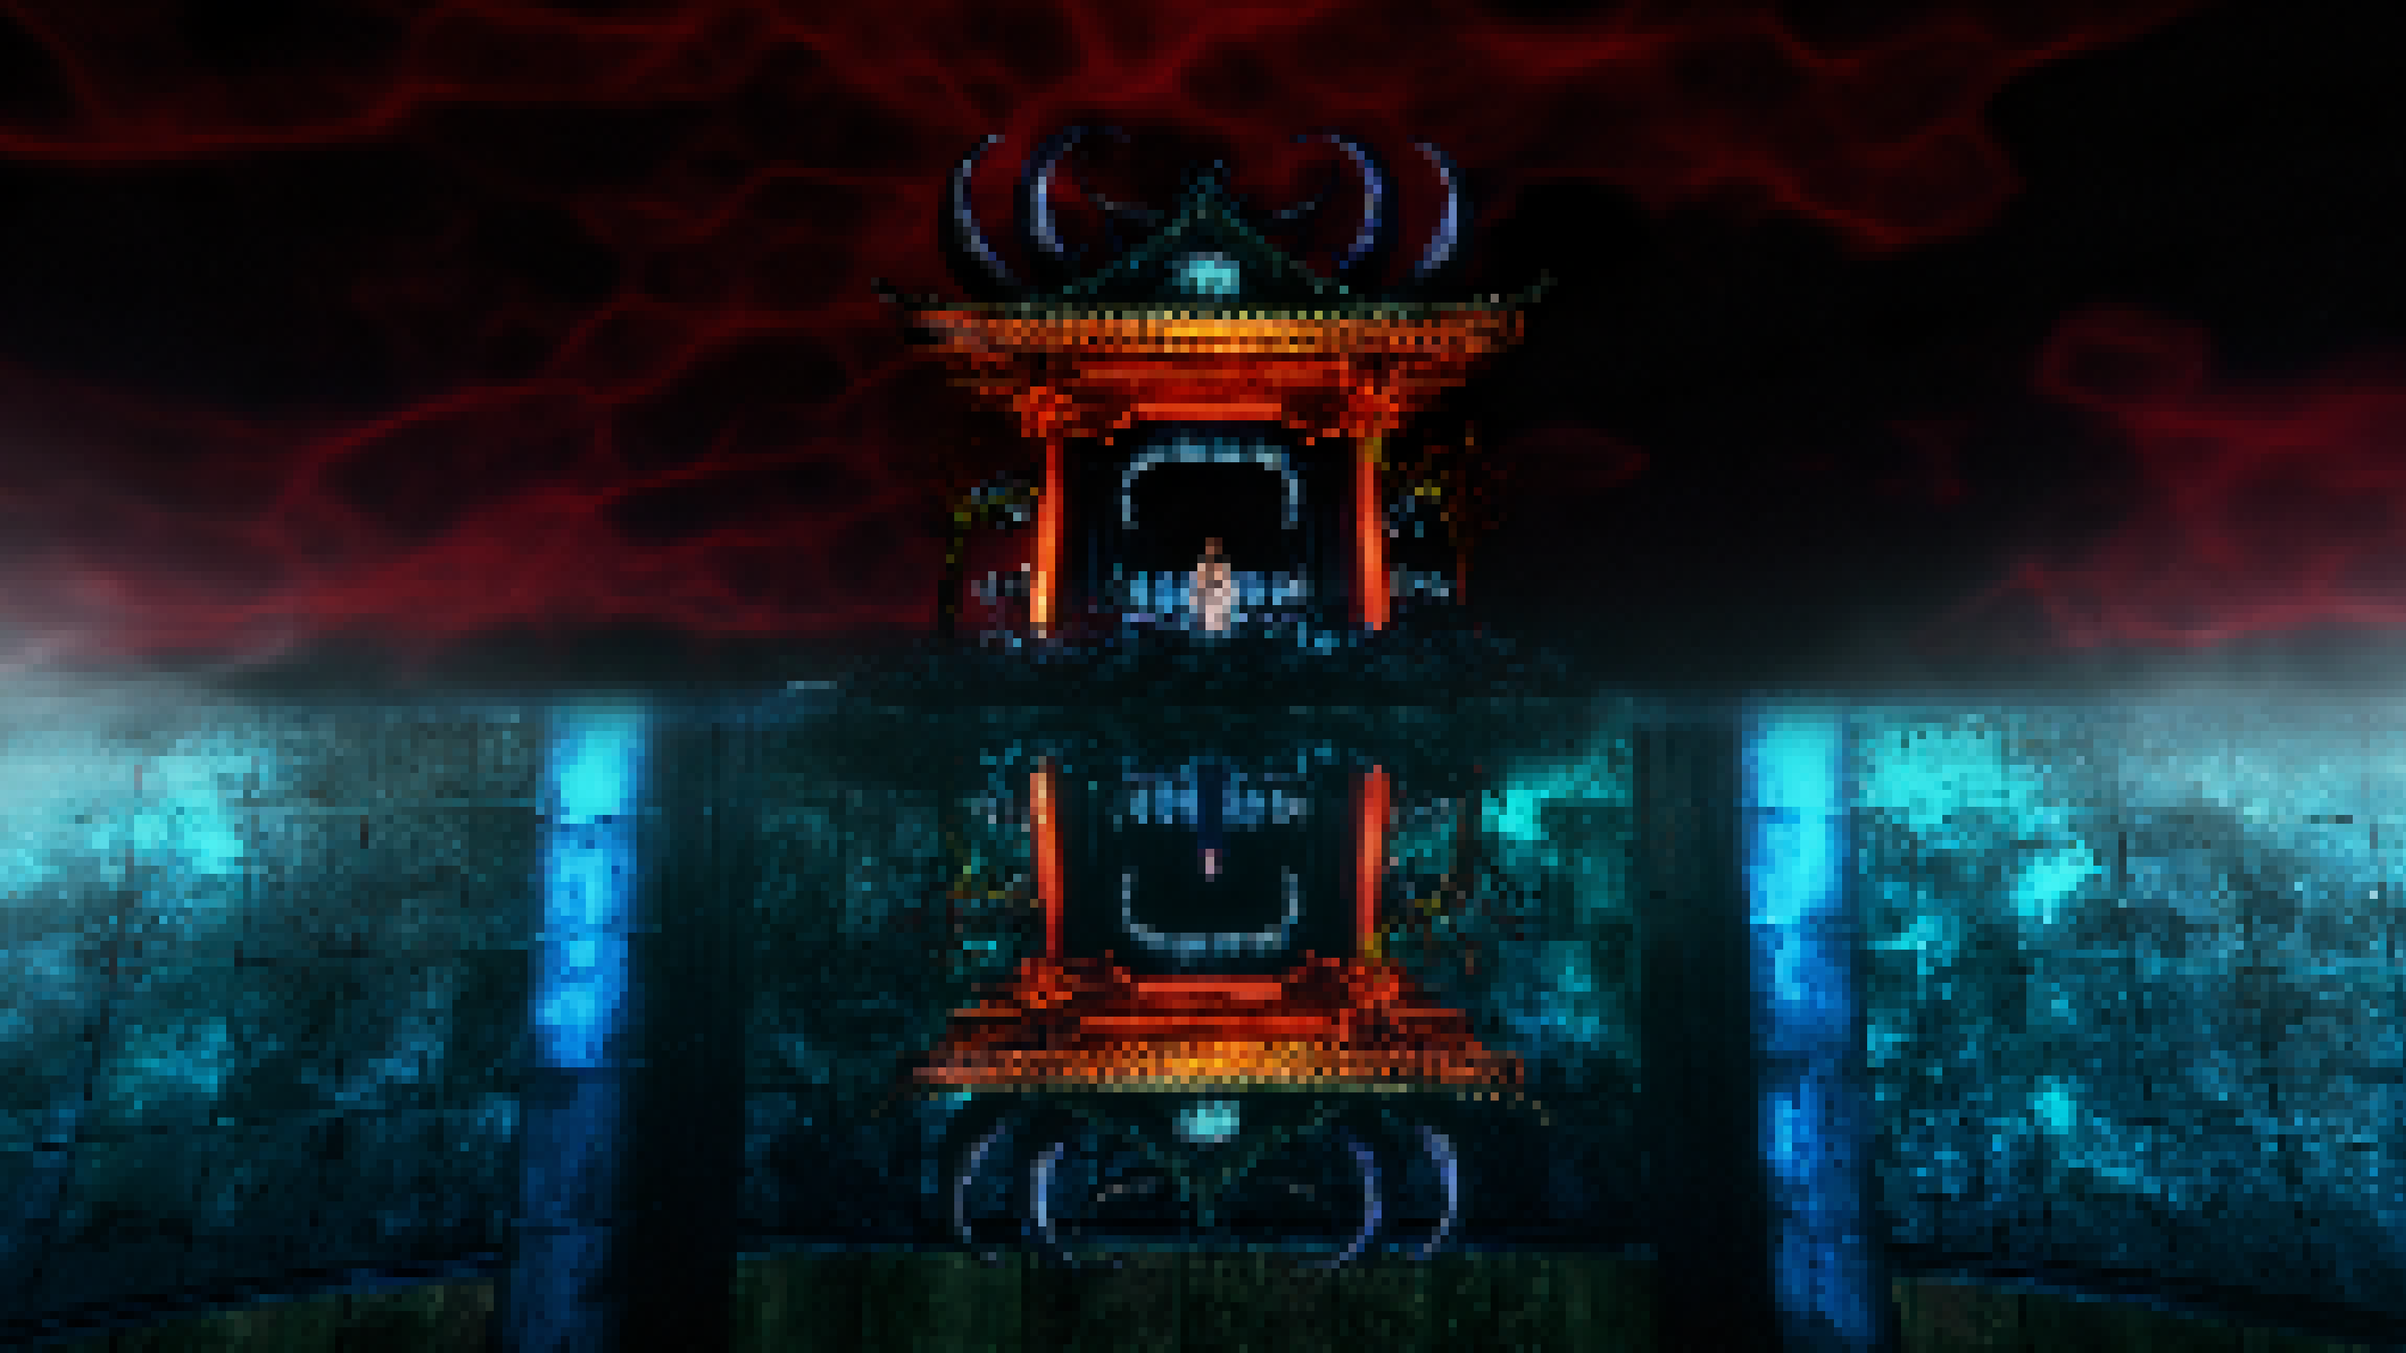
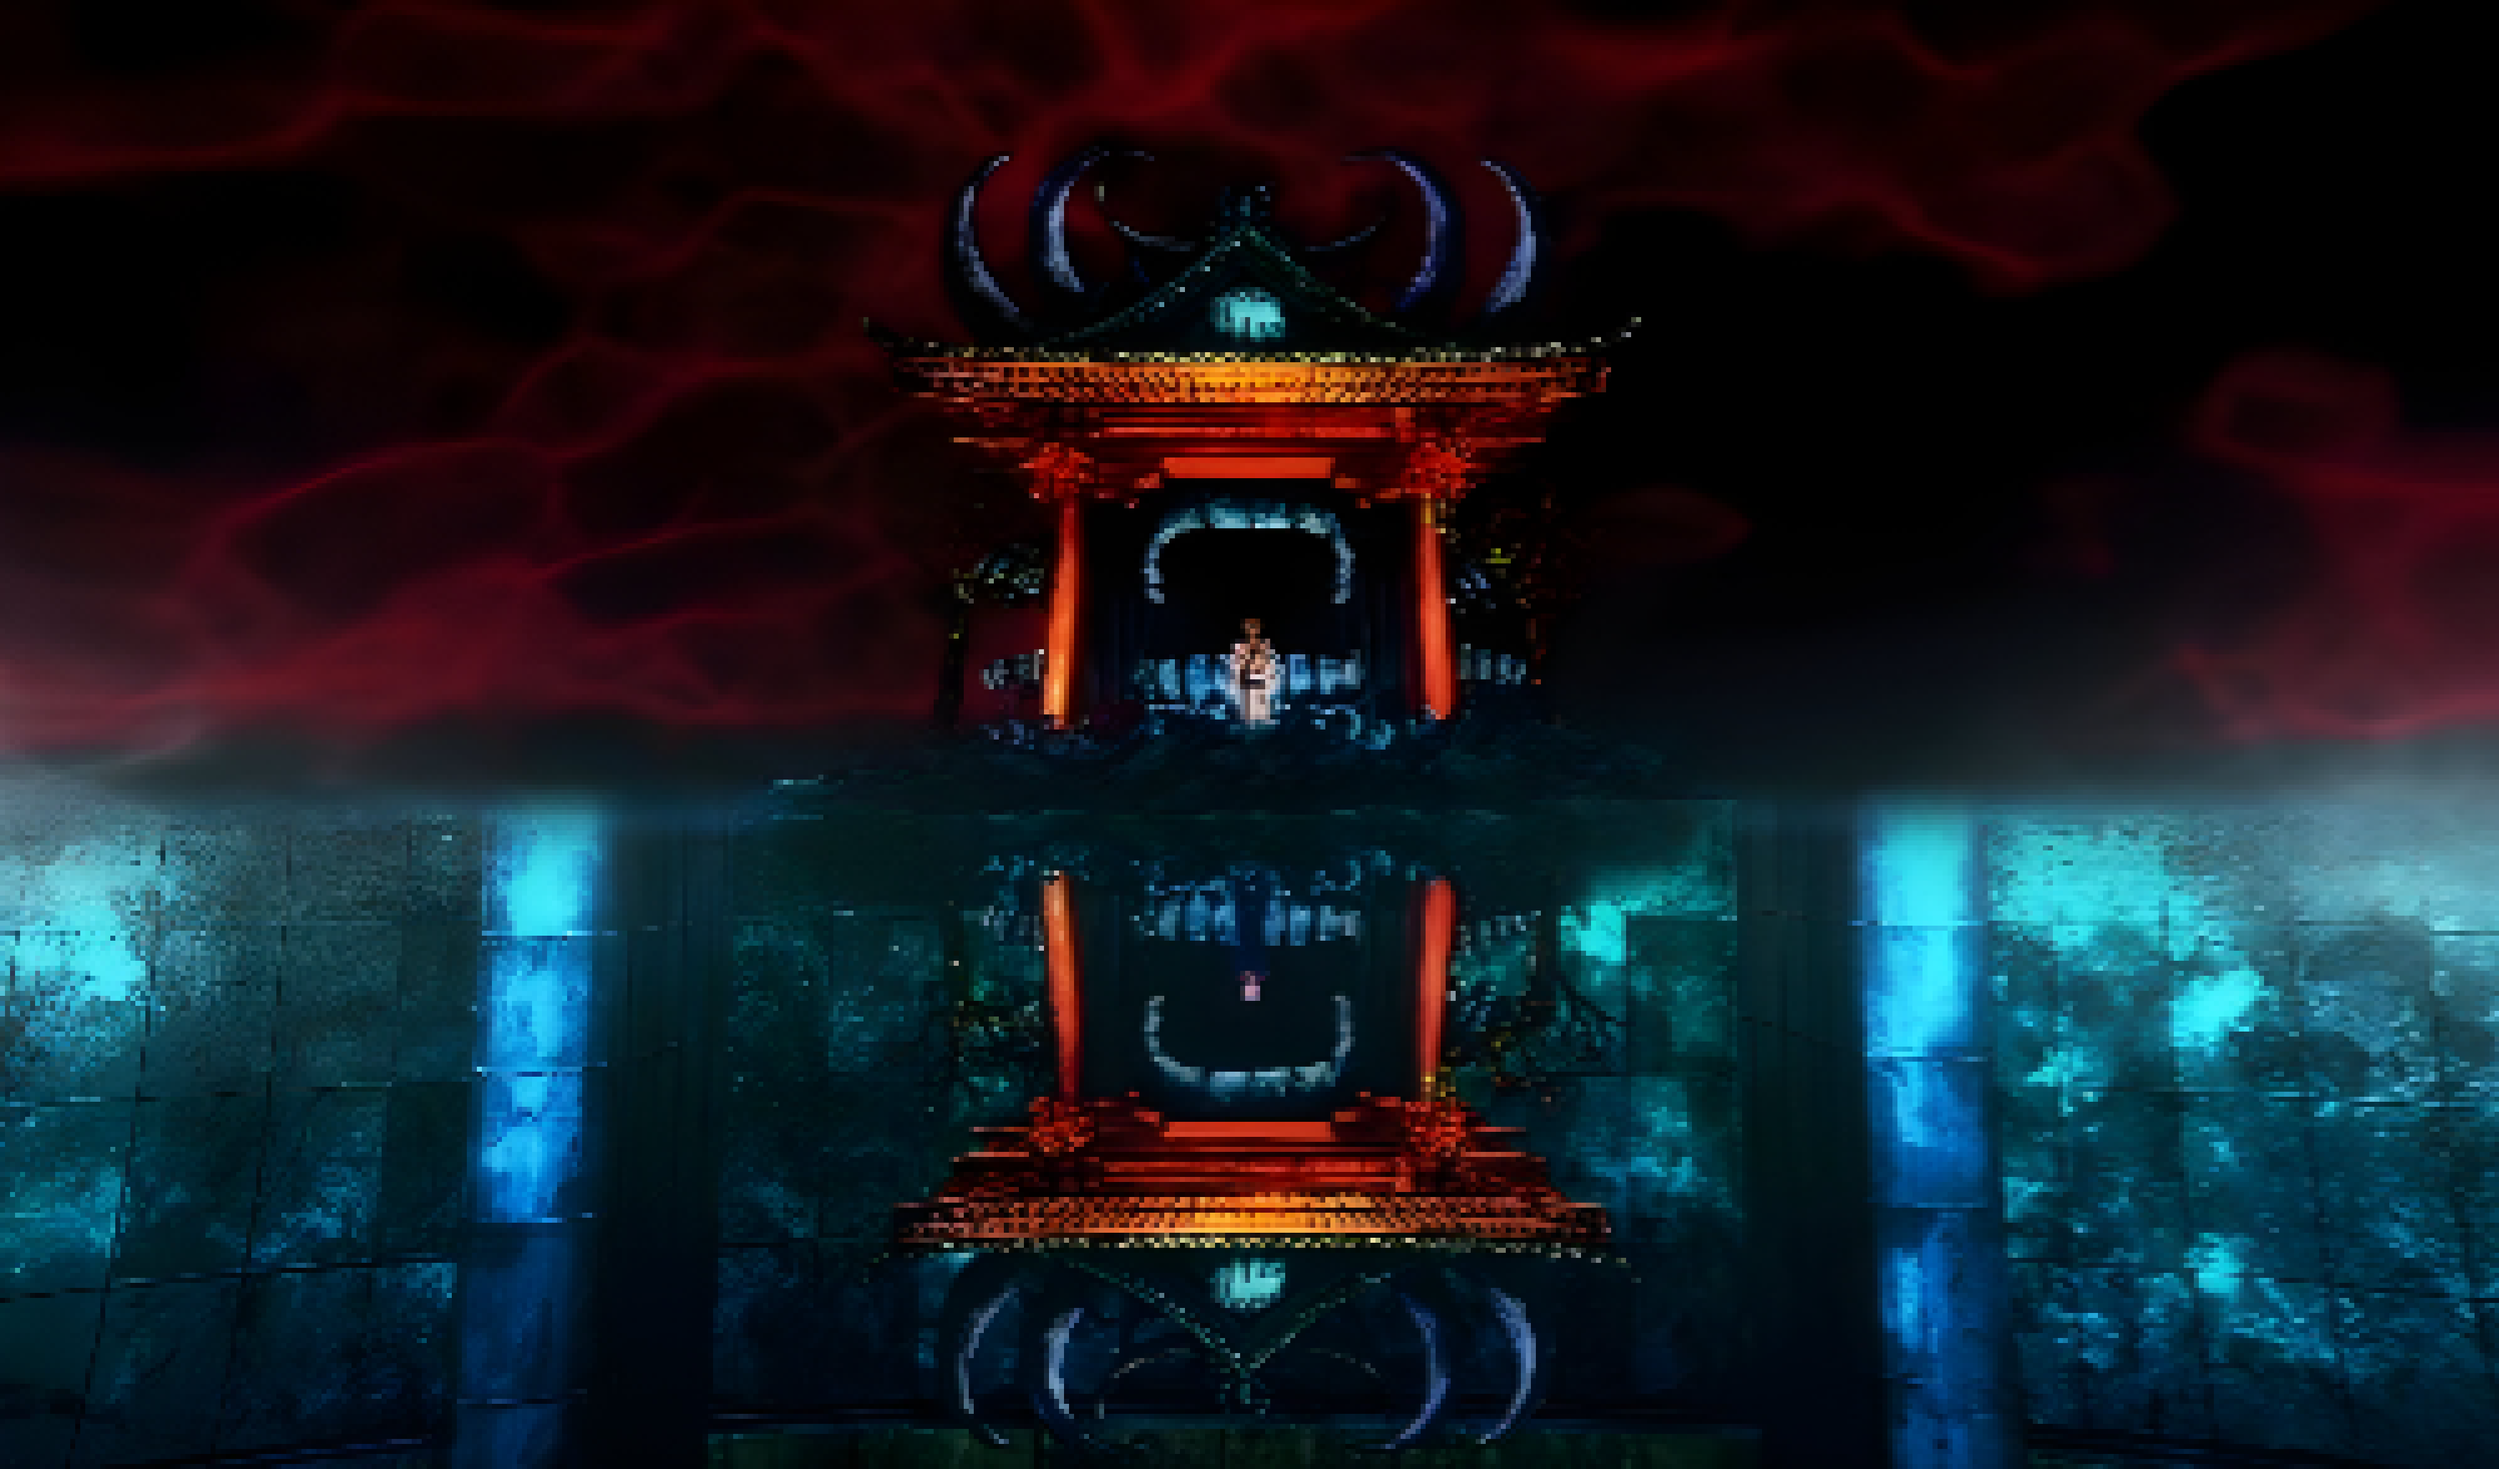
image

diff --git a/data.js b/data.js
@@ -12,7 +12,7 @@ const sorcerer = [
     anime:"Anime: Episode 4",
     userimage:"./user/sukuna3.png",
     domainimage:"",
-    back:"./assets/shrine.png",
+    back:"./domain/shrine.png",
     extra:"",
 },
 {
@@ -28,7 +28,7 @@ const sorcerer = [
     anime:"Anime: Episode 7",
     userimage:"./user/gojo.png",
     domainimage:"",
-    back:"./assets/void.png",
+    back:"./domain/void.png",
     extra:"",
 },
 {
@@ -44,7 +44,7 @@ const sorcerer = [
     anime:"Anime: Episode 23",
     userimage:"./user/megumi.png",
     domainimage:"",
-    back:"",
+    back:"./domain/chimera.png",
     extra:"",
 },
 {
@@ -60,7 +60,7 @@ const sorcerer = [
     anime:"Anime: N/A",
     userimage:"./user/naoya.png",
     domainimage:"",
-    back:"",
+    back:"./domain/cell1.png",
     extra:"",
 },
 {
@@ -76,7 +76,7 @@ const sorcerer = [
     anime:"Anime: N/A",
     userimage:"./user/hakari.png",
     domainimage:"./domain/deadly.jpg",
-    back:"",
+    back:"./domain/gamble.png",
     extra:"",
 },
 {
@@ -92,7 +92,7 @@ const sorcerer = [
     anime:"Anime: N/A",
     userimage:"./user/higuruma.png",
     domainimage:"",
-    back:"",
+    back:"./domain/court.png",
     extra:"",
 },
 {
@@ -108,7 +108,7 @@ const sorcerer = [
     anime:"Anime: N/A",
     userimage:"./user/Kenjaku.png",
     domainimage:"",
-    back:"",
+    back:"./domain/tomb.png",
     extra:"",
 },
 {
@@ -124,7 +124,7 @@ const sorcerer = [
     anime:"Anime: N/A",
     userimage:"./user/yorozu.png",
     domainimage:"",
-    back:"",
+    back:"./domain/three.png",
     extra:"",
 },
 {
@@ -140,7 +140,7 @@ const sorcerer = [
     anime:"Anime: Episode 36",
     userimage:"./user/smallpox.png",
     domainimage:"",
-    back:"",
+    back:"./domain/smallpox.png",
     extra:"",
 },
 {
@@ -156,7 +156,7 @@ const sorcerer = [
     anime:"Anime: Episode 7",
     userimage:"./user/dagon.png",
     domainimage:"",
-    back:"",
+    back:"./domain/skandha.png",
     extra:"",
 },
 {
@@ -172,7 +172,7 @@ const sorcerer = [
     anime:"Anime: Episode 7",
     userimage:"./user/jogo.png",
     domainimage:"",
-    back:"",
+    back:"./domain/mountain.png",
     extra:"",
 },
 {
@@ -188,7 +188,7 @@ const sorcerer = [
     anime:"Anime: Episode 13",
     userimage:"./user/mahito.png",
     domainimage:"",
-    back:"",
+    back:"./domain/perfect.png",
     extra:"",
 },
 ];

diff --git a/main.js b/main.js
@@ -62,8 +62,13 @@ function nameSlide(){
         let option = document.getElementById("name" + currentIndex)
         option.onclick = function () {
             console.log(option);
-    
-    
+
+        setTimeout(function (){
+            document.getElementById("background").style.opacity = 0;
+                document.getElementById("background").style.transition = "1s";
+                    document.getElementById("website").style.color = "white";
+        },1000);
+
         setTimeout(function(){
           window.location.href = "./info.html";
         }, 5000);
@@ -75,14 +80,17 @@ function nameSlide(){
             let option = document.getElementById("name" + currentIndex)
                 option.onclick = function () {
                     console.log(option);
-                      
+
+                setTimeout(function (){
+                    document.getElementById("background").style.opacity = 0;
+                        document.getElementById("background").style.transition = "1s";   
+                            document.getElementById("website").style.color = "white";
+                },1000);
+
                 setTimeout(function(){
                   window.location.href = "./info.html";
                 }, 5000);
-            };
-            
-        
-            
+            };         
 }
 
 function background(){
@@ -100,9 +108,10 @@ function background(){
     });
     
     function update() {  
-        document.getElementById("background").src =  sorcerer[currentIndex].back;
+        document.getElementById("background-domain").src =  sorcerer[currentIndex].back;
+        console.log(currentIndex);
     }
-    document.getElementById("background").src =  sorcerer[currentIndex].back;
+    document.getElementById("background-domain").src =  sorcerer[currentIndex].back;
 }
 
 function charaterSlide(){
@@ -133,7 +142,8 @@ function charaterSlide(){
     document.getElementById("sorcerer-image3").src = sorcerer[currentIndex + 1].userimage ;
     document.getElementById("sorcerer-image4").src = sorcerer[currentIndex + 2].userimage ;
 }
-
+ 
+background();
 charaterSlide();
 powerSlide();
 nameSlide();

diff --git a/style.css b/style.css
@@ -20,9 +20,30 @@ body{
     background-repeat:no-repeat;
     background-size: cover;
     width: 100%;
-    height: 100%;
+    height: auto;
+    min-width: 1920px;
+    min-height: 1080px;
     z-index: -1;
+    margin: 0;
+    padding: 0;
 }
+
+#background-domain{
+    position: absolute;
+    top: 50%;
+    left: 50%;
+    transform: translate(-50%,-50%);
+    background-repeat:no-repeat;
+    background-size: cover;
+    width: 100%;
+    height: auto;
+    min-width: 1920px;
+    min-height: 1080px;
+    z-index: -2;
+    margin: 0;
+    padding: 0;
+}
+
 
 :root{
     --primary-color: white;
@@ -75,6 +96,7 @@ g{
     margin: 0rem 0rem 0rem 1.5rem;
     font-size: 2rem;
     transition: 0.4s;
+    color: black;
 }
 
 a{
@@ -134,10 +156,10 @@ main{
     display: flex;
     flex-direction: row;
     justify-content: space-between;
-    width: 39rem;
+    width: 35rem;
     position: absolute;
-    top: 45vh;
-    left: 51%;
+    top: -15.6rem;
+    left: 49%;
     transform: translate(-50%, -50%);
     z-index: 1;
 }

diff --git a/index.html b/index.html
@@ -106,10 +106,10 @@
             <button id="left-arrow" style="transform: scaleX(-1);">&#10148</button>
             <button id="right-arrow">&#10148</button>
         </div>
-    <!--    <div id="arrows1">
+        <div id="arrows1">
             <button id="left-arrow1">&#10148</button>
             <button id="right-arrow1" style="transform: scaleX(-1)">&#10148</button>
-        </div>-->
+        </div>
         <div id="list">
             <ul>
                 <img id="sorcerer-image" src="" alt=""  style="width: 15rem; height: 15rem; filter: brightness(35%); transform: translate(0, 60%); margin: 0rem 4rem">
@@ -132,6 +132,7 @@
     </div>
     </main>
     <img src="./assets/school.png" alt="" id="background">
+    <img src="" alt="" id="background-domain">
 
 <script src="./main.js" type="module"></script>
 </body>
